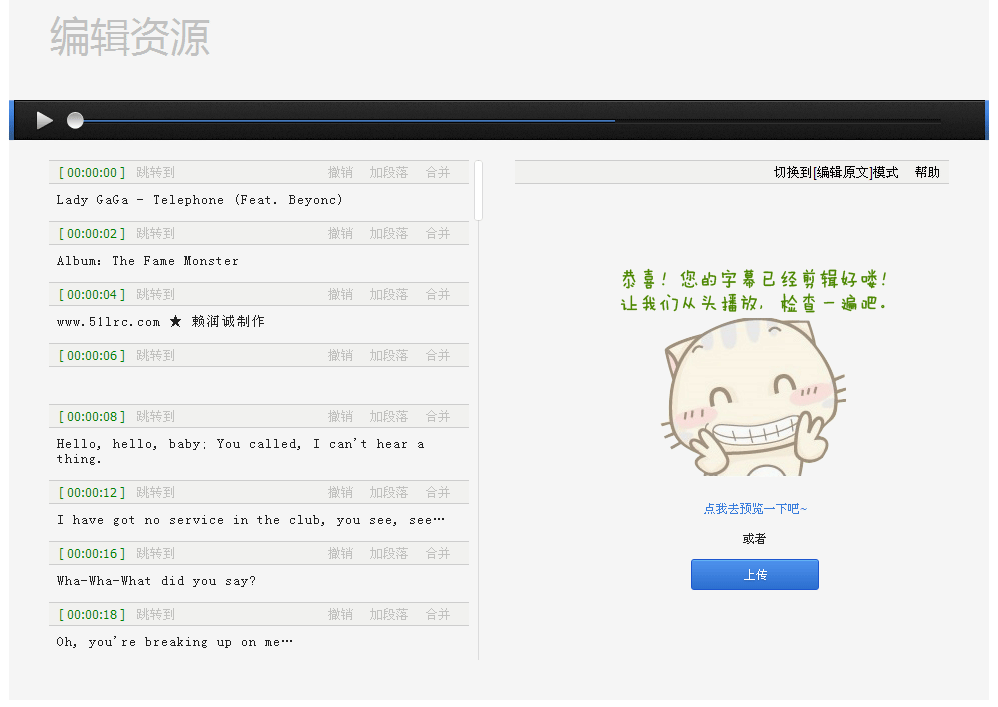
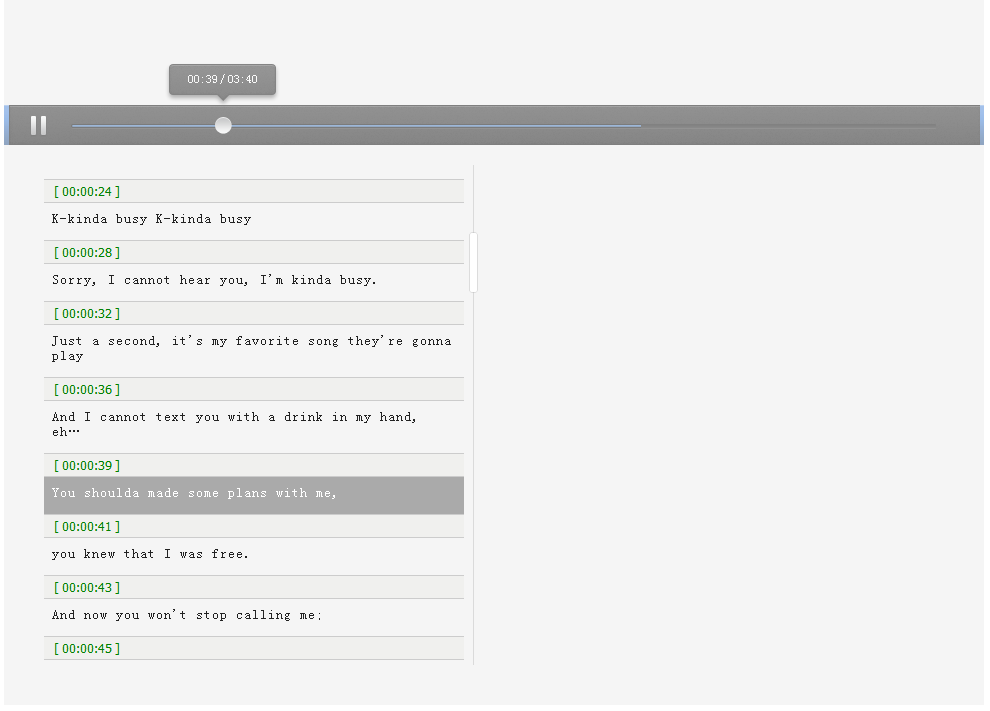
update

diff --git a/KitJs/demo/VoiceReader/demo.html b/KitJs/demo/VoiceReader/demo.html
@@ -58,61 +58,12 @@
 		<meta name="viewport" content="width=device-width" />
 	</head>
 	<body>
-		<header>
-			<div id="header">
-				<div class="header-content">
-					<div id="login">
-					    <div id="loginComplete">
-					        你好, xueduanyang<s></s>
-							<ul class="menu" style="display:none">
-								<li><a href="/Account/ChangePassword">修改密码</a></li>
-								<li><a href="/Account/LogOff">退出登陆</a></li>
-							</ul>
-					    </div>
-					</div>
-					<nav>
-						<ul class="nav media">
-							<li>
-								<a class="home" href="/">词库</a>
-							</li>
-							<li>
-								<a class="media" href="/media/">资源</a>
-							</li>
-							<li>
-								<a class="dict" href="#">在线词典</a>
-							</li>
-						</ul>
-					</nav>
-				</div>
-			</div>
-		</header>
 		<div id="body">
-			<div class="topboard current-tab-is-all">
-				<div class="topboard-content">
-					<s class="left-corner"></s>
-					<ul class="topboard-menu">
-						<li class="latest-resource">
-							<a href="/media/?tab=latest">最新资源</a>
-						</li>
-						<li class="favorite-resource">
-							<a href="/media/?tab=favorite">我的收藏</a>
-						</li>
-						<li class="upload-resource">
-							<a href="/media/?tab=upload">我的上传</a>
-						</li>
-					</ul>
-					<s class="right-corner"></s>
-				</div>
-			</div>
 			<div class="mainboard">
 				<div class="mainboard-main">
 					<div class="play-artical-info">
 						<div class="article-title">
 							Lady gaga telephone
-						</div>
-						<div class="article-info">
-							<span class="author">joi</span>
-							发表于 <span class="last-update-time">2012-3-29 11:06:55</span>
 						</div>
 						<div class="operate-area">
 							<table class="gallary-box">
@@ -2088,78 +2039,7 @@
 					</div>
 					<s id="J_slideBarForPlay" class="slideBarForPlay" style="display:none;top:0;">播放该段</s>
 				</div>
-				<div class="mainboard-right">
-					<ul>
-						<li class="upload-area">
-							<a class="btn-upload-resource" href="/media/add">上传资源</a>
-							<s class="bottom-shadow"></s>
-						</li>
-						<li class="download-area">
-							<span class="title">让知识在指尖继续</span>
-							<a href="#" class="ios_download">iOs</a>
-							<a href="#" class="android_download">android</a>
-							<s class="bottom-shadow"></s>
-						</li>
-						<li class="tag-area">
-							<div class="title">
-								标签
-							</div>
-							<ul class="tag-list">
-								<li>
-									<span class="tag"><a href="#">cc</a></span>
-									<span class="count">2</span>
-								</li>
-								<li>
-									<span class="tag"><a href="#">gg</a></span>
-									<span class="count">1</span>
-								</li>
-								<li>
-									<span class="tag"><a href="#">music</a></span>
-									<span class="count">1</span>
-								</li>
-								<li>
-									<span class="tag"><a href="#">测试</a></span>
-									<span class="count">1</span>
-								</li>
-								<li>
-									<span class="tag"><a href="#">RFI</a></span>
-									<span class="count">2</span>
-								</li>
-								<li>
-									<span class="tag"><a href="#">tag</a></span>
-									<span class="count">0</span>
-								</li>
-								<li>
-									<span class="tag"><a href="#">dd</a></span>
-									<span class="count">1</span>
-								</li>
-								<li>
-									<span class="tag"><a href="#">yemen</a></span>
-									<span class="count">2</span>
-								</li>
-								<li>
-									<span class="tag"><a href="#">lady gaga</a></span>
-									<span class="count">2</span>
-								</li>
-								<li>
-									<span class="tag"><a href="#">bag</a></span>
-									<span class="count">1</span>
-								</li>
-								<li>
-									<span class="tag"><a href="#">bb</a></span>
-									<span class="count">2</span>
-								</li>
-								<li>
-									<span class="tag"><a href="#">aaa</a></span>
-									<span class="count">1</span>
-								</li>
-								<li>
-									<span class="tag"><a href="#">america</a></span>
-									<span class="count">2</span>
-								</li>
-							</ul>
-						</li>
-					</ul>
+				<div class="mainboard-right" style="background:none">
 				</div>
 			</div>
 			<div class="audio-play">

diff --git a/KitJs/demo/LrcMaker/demo.html b/KitJs/demo/LrcMaker/demo.html
@@ -56,41 +56,17 @@
 		<link rel="stylesheet" href="../../../../Ciku/css/media/z.lrc-play.css" />
 		<link rel="stylesheet" href="../../../../Ciku/css/media/z.lrc-list.css" />
 		<meta name="viewport" content="width=device-width" />
+		<style>
+			.operate {
+				display: none;
+			}
+		</style>
 	</head>
 	<body>
-		<header>
-			<div id="header">
-				<div class="header-content">
-					<div id="login">
-					    <div id="loginComplete">
-					        你好, xueduanyang<s></s>
-							<ul class="menu" style="display:none">
-								<li><a href="/Account/ChangePassword">修改密码</a></li>
-								<li><a href="/Account/LogOff">退出登陆</a></li>
-							</ul>
-					    </div>
-					</div>
-					<nav>
-						<ul class="nav media">
-							<li>
-								<a class="home" href="/">词库</a>
-							</li>
-							<li>
-								<a class="media" href="/media/">资源</a>
-							</li>
-							<li>
-								<a class="dict" href="#">在线词典</a>
-							</li>
-						</ul>
-					</nav>
-				</div>
-			</div>
-		</header>
 		<div id="body">
-			<div class="mainboard-ceiling"></div>
 			<div class="mainboard">
 				<div class="media-edit-page">
-					<h3>编辑资源</h3>
+					<h3></h3>
 					<div class="lrc-create">
 						<div class="audio">
 							<audio id="J_media" src="../../../../Ciku/dat/Telephone.mp3" preload="auto"></audio>
@@ -109,7 +85,7 @@
 								<ol id="lrc-list"></ol>
 								<div class="cue" id="J_lrcArea_cue"></div>
 							</div>
-							<div class="creater" id="J_createrArea">
+							<div class="creater" id="J_createrArea" style="display:none">
 								<div class="control-params">
 									<label for="time-error">误差时间</label>
 									<input size="1" type="text" id="J_timeError" value="0" title="tips:控制点击创建字幕的由于听到单击创建字幕时的延时误差时间">
